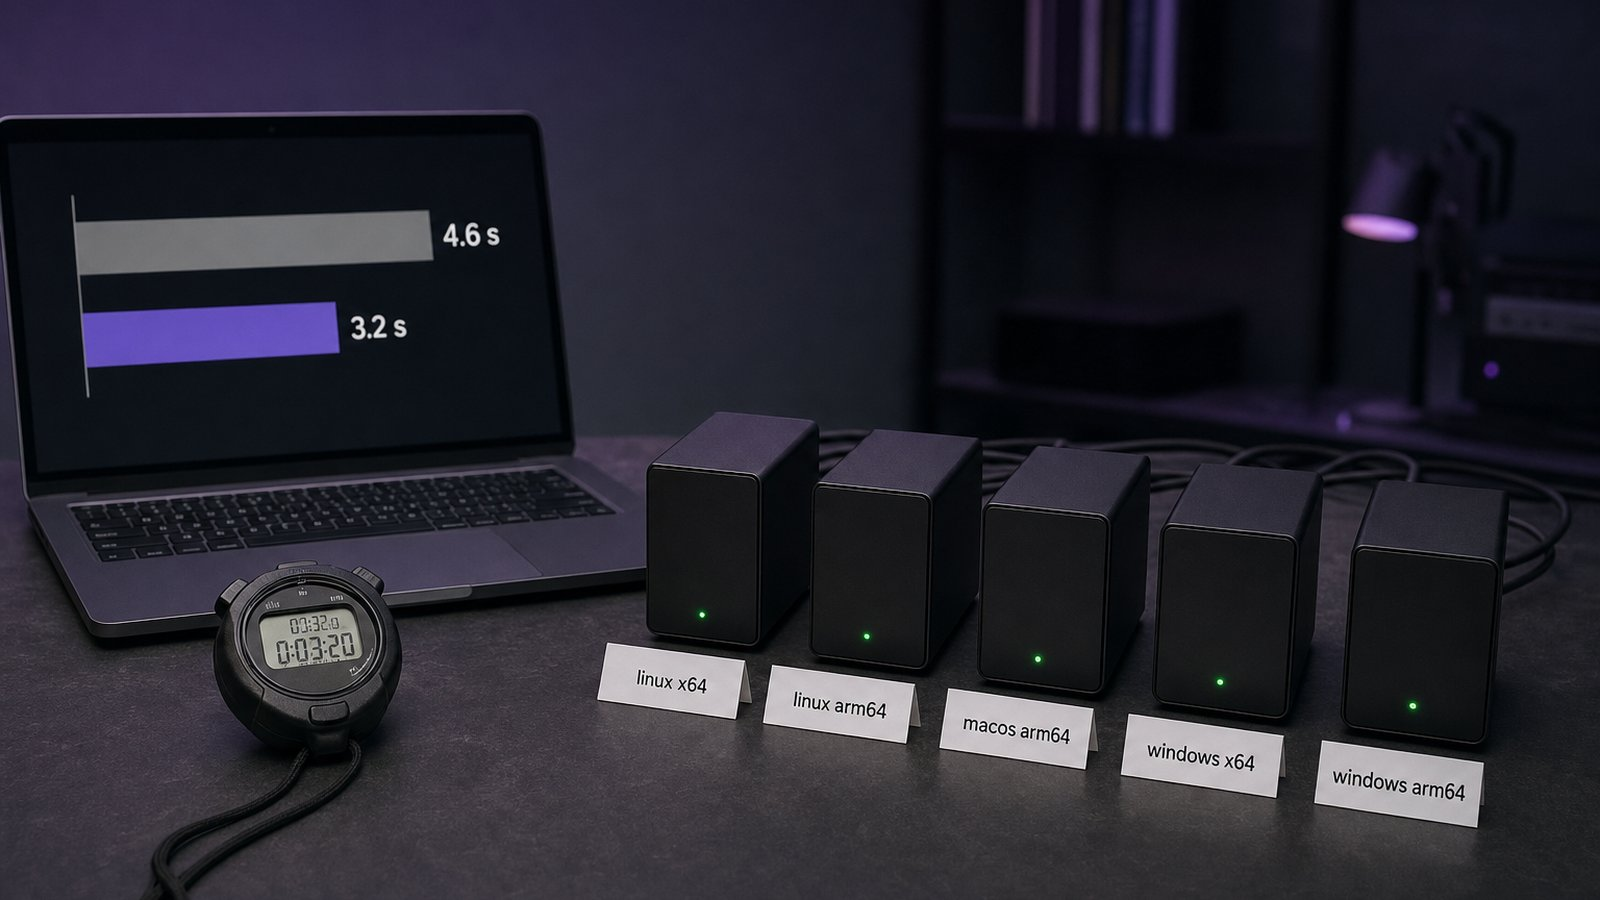
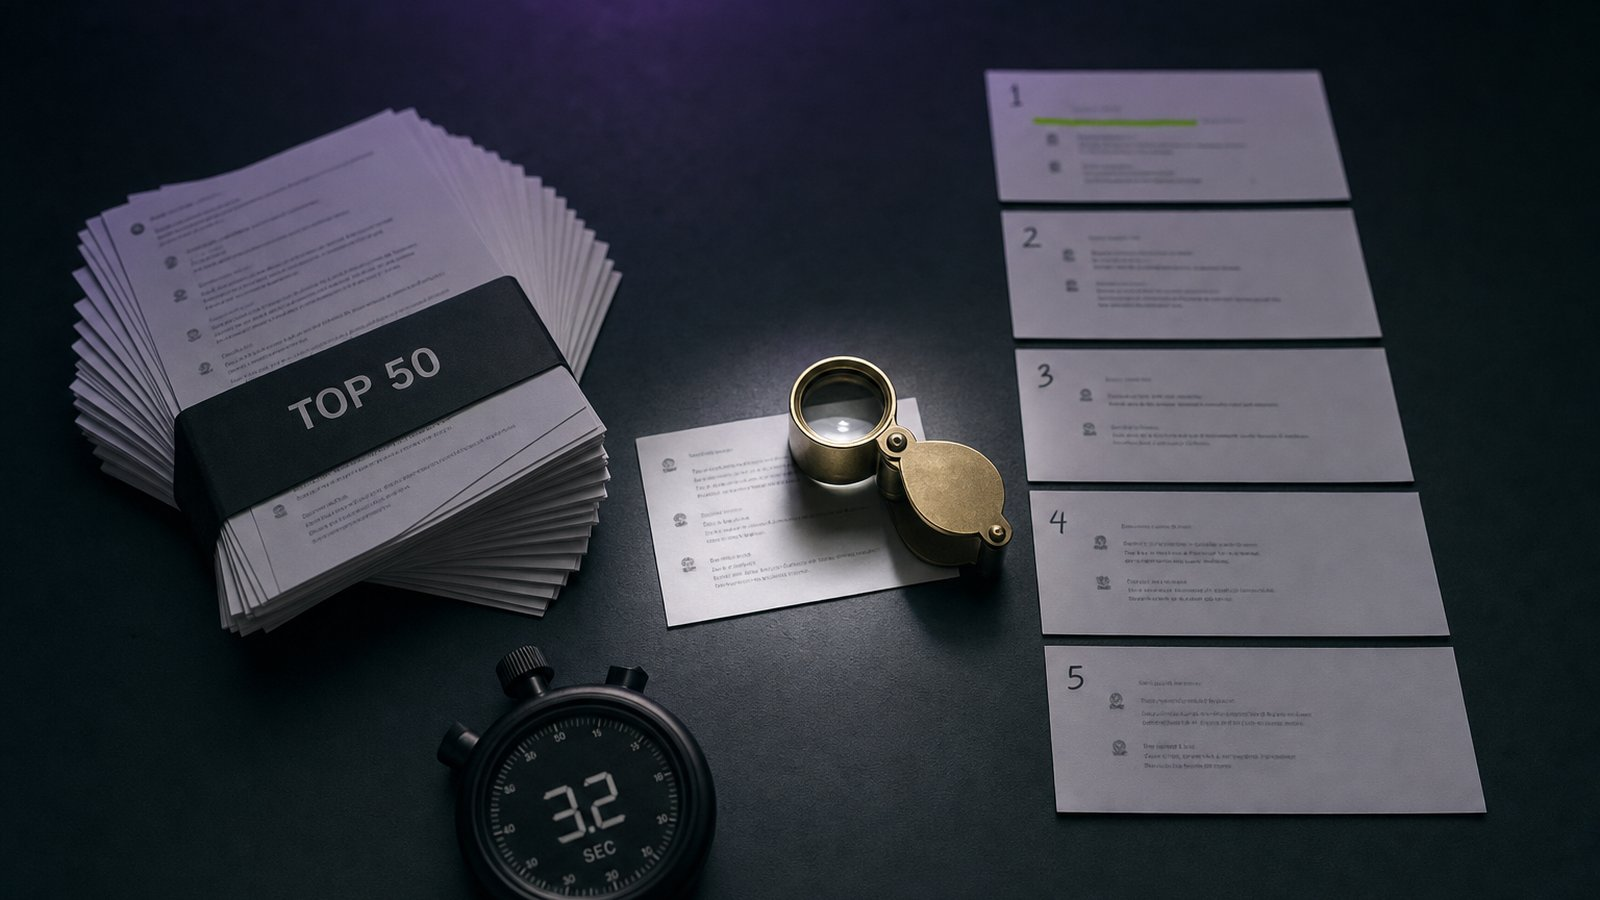
fix(blog): series dropdown keeps its numbers inside; a cover that shows reranking
The dropdown's left padding was too small for the list markers, so "1." and "2."
sat outside its border (owner's screenshot, dark theme). The speed post's cover
showed five machines, which is cross-platform, not reranking (owner): it now shows
fifty candidates banded as top 50, one read under a loupe, five ranked, 3.2 s.
gpt-image-2 high, 1600x900 JPEG.

diff --git a/components/blog/blog.css b/components/blog/blog.css
@@ -641,8 +641,8 @@
   z-index: 5;
   top: calc(100% + 6px);
   left: 0;
-  width: min(420px, 90vw);
-  padding: 10px 14px;
+  width: min(440px, 90vw);
+  padding: 10px 16px 10px 38px;
   border: 1px solid var(--line);
   border-radius: 14px;
   background: var(--paper);

diff --git a/content/blog/making-a-reranker-fast/index.ru.md b/content/blog/making-a-reranker-fast/index.ru.md
@@ -4,7 +4,7 @@ description: Пакетная обработка квантованного пе
 date: 2026-10-27
 tags: [search, benchmarks, cli]
 cover: ./cover.jpg
-coverAlt: "Ноутбук с полосами 4,6 с и 3,2 с, секундомер и пять маленьких компьютеров с табличками linux x64, linux arm64, macos arm64, windows x64 и windows arm64, у каждого горит зелёный огонёк"
+coverAlt: "Пятьдесят распечатанных сообщений в пачке с надписью top 50, одно читают под лупой, пять разложены по порядку от 1 до 5, первое отмечено зелёным, секундомер показывает 3,2 секунды"
 author: viacheslav-ptsarev
 series: laptop-search
 glance:

diff --git a/content/blog/making-a-reranker-fast/index.es.md b/content/blog/making-a-reranker-fast/index.es.md
@@ -4,7 +4,7 @@ description: Procesar por lotes un reranker cuantizado cambió sus respuestas, n
 date: 2026-10-27
 tags: [search, benchmarks, cli]
 cover: ./cover.jpg
-coverAlt: "Un portátil con barras de 4,6 s y 3,2 s, un cronómetro y cinco ordenadores pequeños con etiquetas linux x64, linux arm64, macos arm64, windows x64 y windows arm64, cada uno con una luz verde"
+coverAlt: "Cincuenta mensajes impresos con una banda top 50, uno leído bajo una lupa, cinco ordenados del 1 al 5 con el primero marcado en verde y un cronómetro en 3,2 segundos"
 author: viacheslav-ptsarev
 series: laptop-search
 glance:

diff --git a/content/blog/making-a-reranker-fast/index.md b/content/blog/making-a-reranker-fast/index.md
@@ -4,7 +4,7 @@ description: Batching a quantized reranker changed its answers, not its speed. A
 date: 2026-10-27
 tags: [search, benchmarks, cli]
 cover: ./cover.jpg
-coverAlt: "A laptop showing 4.6 s and 3.2 s bars, a stopwatch, and five small computers labelled linux x64, linux arm64, macos arm64, windows x64 and windows arm64, each with a green light"
+coverAlt: "Fifty printed message cards banded as top 50, one card read under a loupe, five cards ranked 1 to 5 with the first marked green, and a stopwatch at 3.2 seconds"
 author: viacheslav-ptsarev
 series: laptop-search
 glance:
